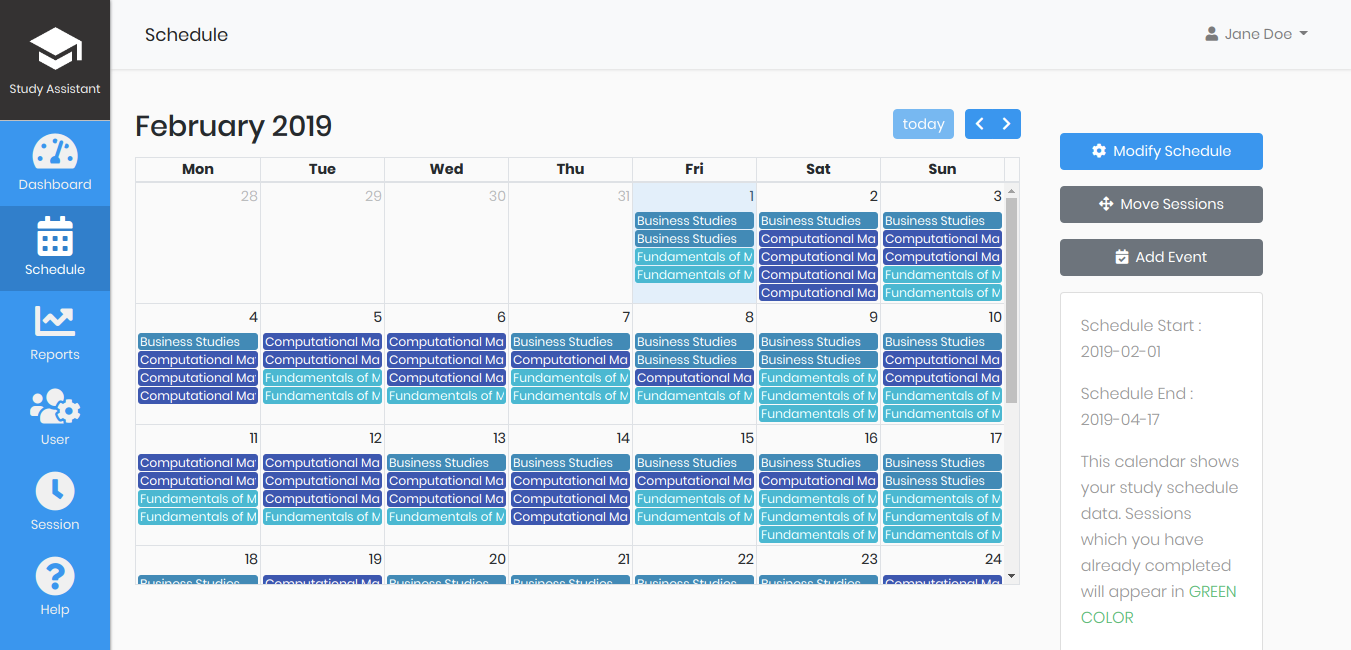
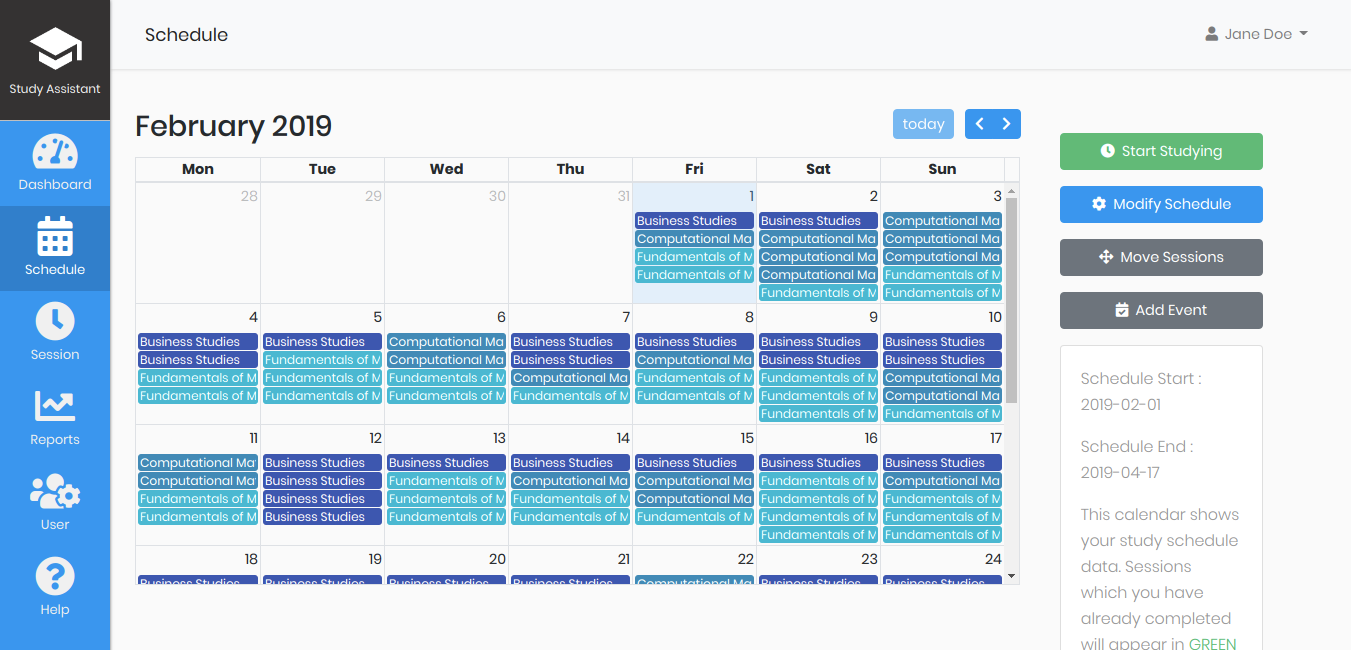
Minor UI improvements and Screenshot updates for repo

diff --git a/resources/views/layouts/sidebar.blade.php b/resources/views/layouts/sidebar.blade.php
@@ -16,9 +16,15 @@
                 </a>
             </li>
             <li class="{{ Request::is('schedules*') ? 'active' : '' }}">
-                <a href="/schedules">
+                <a href="{{ route('schedules.show') }}">
                     <i class="fas fa-calendar-alt sidebar-icon"></i>
                     <span class="sidebar-text">Schedule</span>
+                </a>
+            </li>
+            <li class="{{ Request::is('session') ? 'active' : '' }}">
+                <a href="{{ route('session.show') }}">
+                    <i class="fas fa-clock sidebar-icon"></i>
+                    <span class="sidebar-text">Session</span>
                 </a>
             </li>
             <li class="{{ Request::is('reports*') ? 'active' : '' }}">
@@ -28,23 +34,17 @@
                 </a>
             </li>
             <li class="{{ Request::is('user/*') ? 'active' : '' }}">
-                <a href="/user/edit">
+                <a href="{{ route('user.edit') }}">
                     <i class="fas fa-users-cog sidebar-icon"></i>
                     <span class="sidebar-text">User</span>
                 </a>
             </li>
-            <li class="{{ Request::is('session') ? 'active' : '' }}">
-                    <a href="/session">
-                        <i class="fas fa-clock sidebar-icon"></i>
-                        <span class="sidebar-text">Session</span>
-                    </a>
-                </li>
-                <li class="{{ Request::is('help*') ? 'active' : '' }}">
-                    <a href="/help">
-                        <i class="fas fa-question-circle sidebar-icon"></i>
-                        <span class="sidebar-text">Help</span>
-                    </a>
-                </li>
+            <li class="{{ Request::is('help*') ? 'active' : '' }}">
+                <a href="{{ route('help') }}">
+                    <i class="fas fa-question-circle sidebar-icon"></i>
+                    <span class="sidebar-text">Help</span>
+                </a>
+            </li>
             
         </ul>
 

diff --git a/routes/web.php b/routes/web.php
@@ -23,7 +23,7 @@ Auth::routes();
 
 Route::get('/dashboard', 'DashboardController@index')->name('dashboard');
 
-Route::get('user/{user}', 'UserController@edit')->name('user.edit');
+Route::get('user/edit', 'UserController@edit')->name('user.edit');
 Route::patch('user/{user}', 'UserController@update')->name('user.update');
 Route::delete('user/delete/{user}', 'UserController@destroy')->name('user.delete');
 
@@ -88,7 +88,7 @@ Route::group(
     [
         'prefix' => 'help'
     ], function () {
-        Route::get('/', 'HelpController@index');
+        Route::get('/', 'HelpController@index')->name('help');
         Route::get('/faq/{faq}', 'HelpController@show')->name('help.faq');
         Route::view('/policy', 'help.policy')->name('help.policy');
     }

diff --git a/resources/views/schedules/show.blade.php b/resources/views/schedules/show.blade.php
@@ -28,6 +28,9 @@
             @else
             <div class="col-lg-2 ml-4 mt-4">
                 <div class="row">
+                    <a href="{{ route('session.show') }}" class="btn btn-success btn-block"><i class="fas fa-clock"></i>&nbsp;&nbsp;Start Studying</a>
+                </div>
+                <div class="row mt-3">
                     <button class="btn btn-primary btn-block" data-toggle="modal" data-target="#modifySchedule"><i class="fas fa-cog"></i>&nbsp;&nbsp;Modify Schedule</button>
                 </div>
                 <div class="row mt-3">
